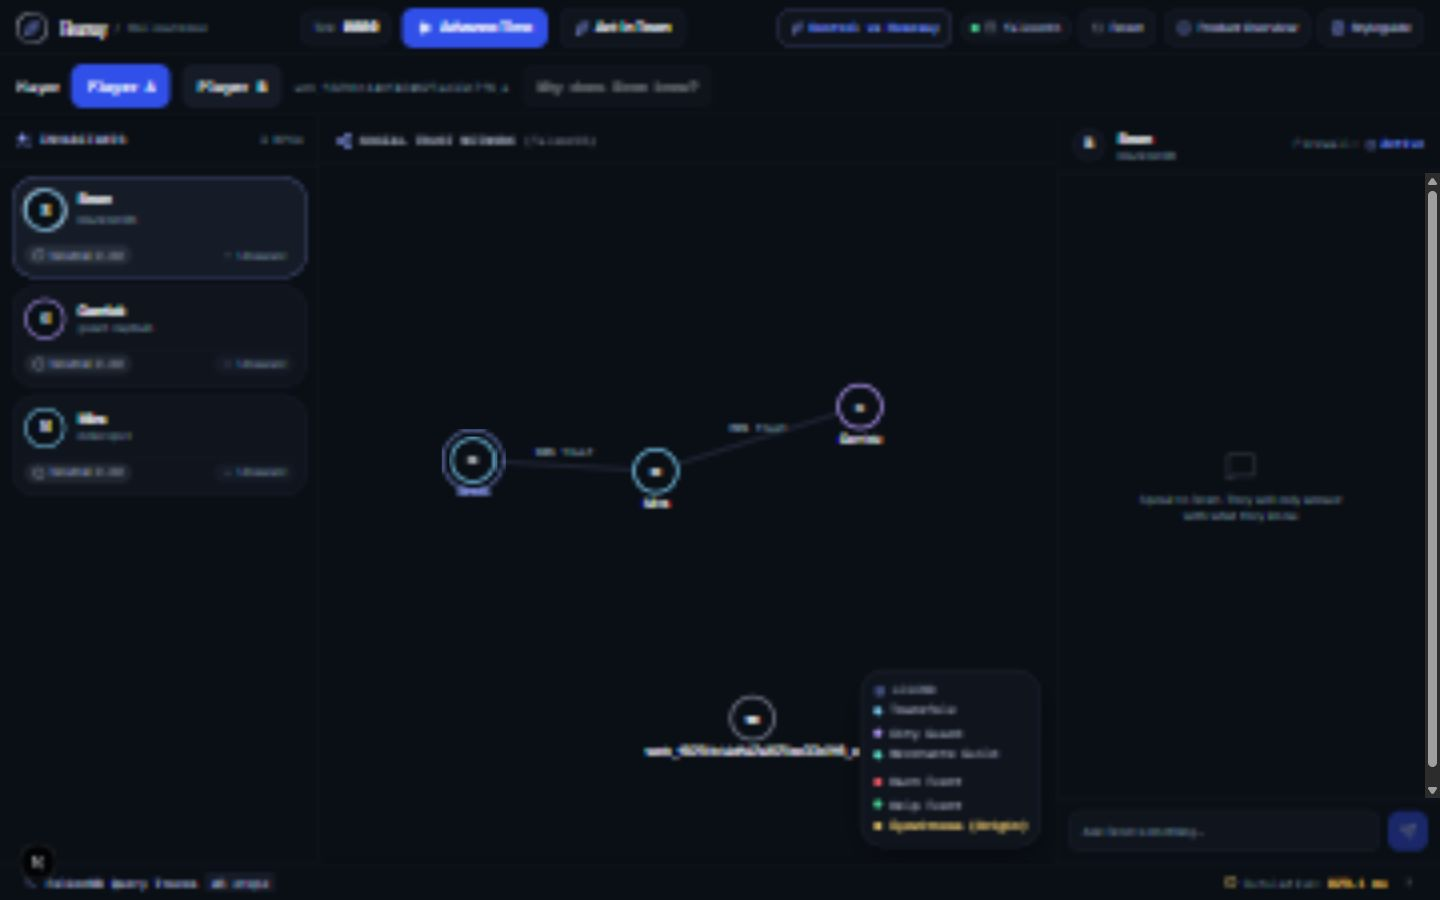
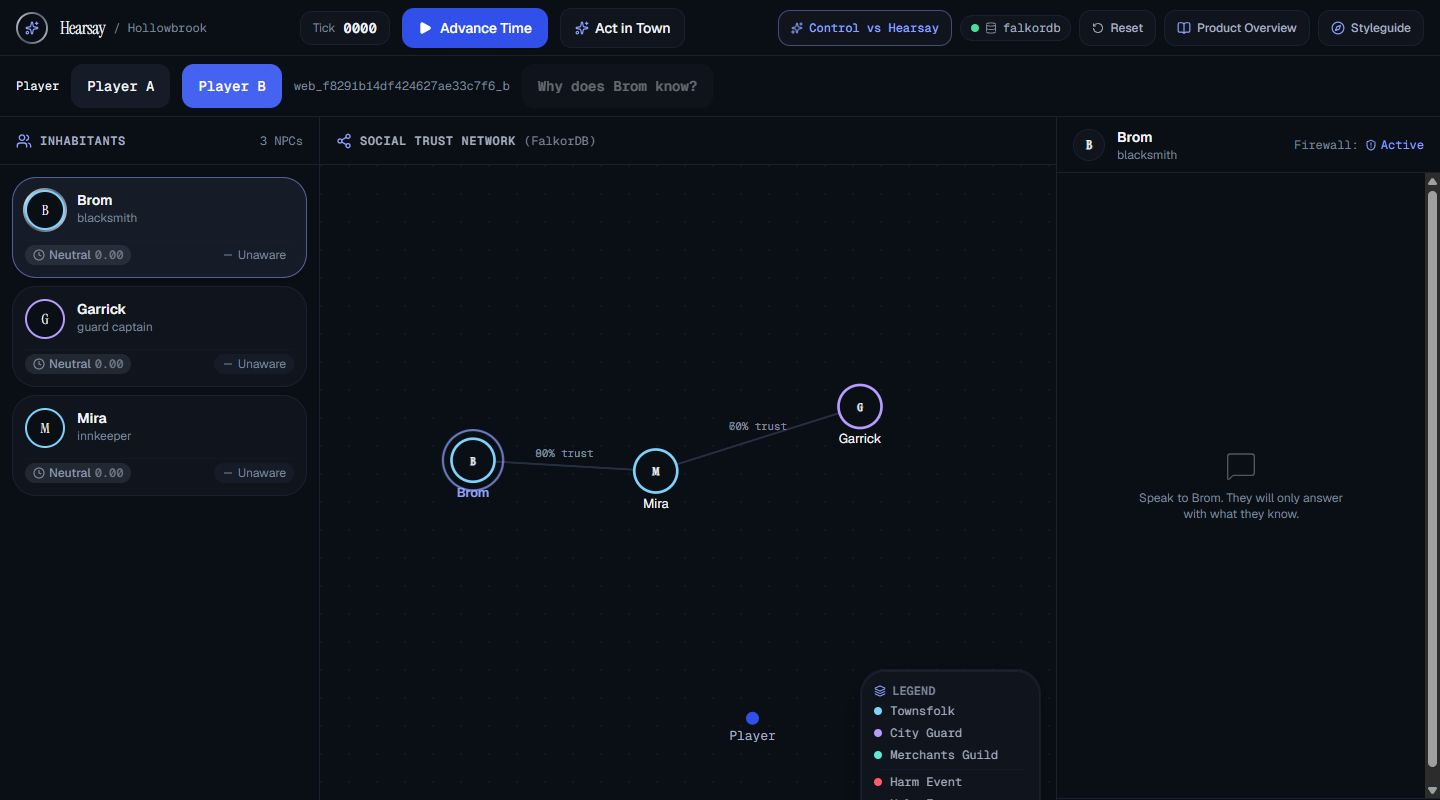
web(D10): verify live demo and preserve failed form state
Record browser proof for firewall abstention, two-tick gossip, provenance, isolation, reload and reset. Keep forms open on failed writes and switch player labels only after a successful load.

Assisted-by: Codex (GPT-6)

diff --git a/apps/web/src/app/page.tsx b/apps/web/src/app/page.tsx
@@ -16,6 +16,7 @@ import { WhyCard } from "../components/WhyCard";
 import { EventForm } from "../components/hearsay/EventForm";
 import { ControlVsHearsayModal } from "../components/ControlVsHearsayModal";
 import { Button } from "../components/ui/button";
+import { PlayerActionModal } from "../components/PlayerActionModal";
 
 export default function TownApp() {
   const [town, setTown] = useState<TownState>();
@@ -28,25 +29,27 @@ export default function TownApp() {
   const savedChats = useRef(new Map<string, TownState["dialogueHistory"]>());
 
   async function run(work: () => Promise<ToolEnvelope<TownState>>, label: string) {
-    if (inFlight.current) return;
+    if (inFlight.current) return false;
     inFlight.current = true;
     setBusy(label);
     setNotice("");
     try {
       const result = await work();
-      if (!result.ok) { setNotice(result.error.code + ": " + result.error.message); return; }
+      if (!result.ok) { setNotice(result.error.code + ": " + result.error.message); return false; }
       setTown((previous) => ({ ...result.data,
         selectedNpcId: previous && previous.playerId === result.data.playerId ? previous.selectedNpcId : result.data.selectedNpcId }));
-    } catch { setNotice("Could not reach the town. Retry the request."); }
+      return true;
+    } catch { setNotice("Could not reach the town. Retry the request."); return false; }
     finally { inFlight.current = false; setBusy(""); }
   }
 
   async function load(player = slot) {
-    await run(async () => {
+    const loaded = await run(async () => {
       const result = isLive ? await liveTown.getTownState(browserPlayer(player)) : await hearsayClient.getTownState();
       if (result.ok) result.data.dialogueHistory = savedChats.current.get(player) ?? {};
       return result;
     }, "Loading town");
+    if (loaded) setSlot(player);
   }
 
   useEffect(() => {
@@ -80,8 +83,8 @@ export default function TownApp() {
 
   async function submit(input: ToolInput<"recordEvent">) {
     if (!town) return;
-    await run(() => liveTown.recordEvent(input, town), "Recording event");
-    setActionOpen(false);
+    const recorded = await run(() => liveTown.recordEvent(input, town), "Recording event");
+    if (recorded) setActionOpen(false);
   }
 
   return <div className="h-screen w-screen flex flex-col bg-background text-text-primary overflow-hidden">
@@ -95,7 +98,7 @@ export default function TownApp() {
     <div className="flex items-center gap-3 px-4 py-2 border-b border-border bg-surface-1 text-xs font-mono">
       <span>Player</span>
       {["a", "b"].map((player) => <Button key={player} variant={slot === player ? "default" : "secondary"} disabled={Boolean(busy)}
-        onClick={() => { savedChats.current.set(slot, town.dialogueHistory); setSlot(player); void load(player); }}>Player {player.toUpperCase()}</Button>)}
+        onClick={() => { savedChats.current.set(slot, town.dialogueHistory); void load(player); }}>Player {player.toUpperCase()}</Button>)}
       <span className="text-text-tertiary truncate">{town.playerId ?? "Mock session"}</span>
       <Button variant="secondary" disabled={Boolean(busy) || !town.events.length} onClick={() => void explain()}>Why does {selected.name} know?</Button>
       <span role="status" className="text-signal">{busy}</span>
@@ -119,8 +122,10 @@ export default function TownApp() {
         }, "Speaking")} />
     </div>
     <TracePanel traces={town.recentTraces} />
-    {actionOpen && <EventForm npcs={town.npcs} places={town.places ?? []} playerId={town.playerId ?? ""}
+    {actionOpen && isLive && <EventForm npcs={town.npcs} places={town.places ?? []} playerId={town.playerId ?? ""}
       busy={Boolean(busy)} onClose={() => setActionOpen(false)} onSubmit={(input) => void submit(input)} />}
+    <PlayerActionModal isOpen={actionOpen && !isLive} npcs={town.npcs} onClose={() => setActionOpen(false)}
+      onSubmitAction={(title, type, witness, place) => void run(() => hearsayClient.recordAction(title, type, witness, place, town), "Recording event")} />
     <ControlVsHearsayModal isOpen={compareOpen} playerId={town.playerId} npcId={selected.id} onClose={() => setCompareOpen(false)} />
   </div>;
 }

diff --git a/apps/web/src/components/hearsay/LiveSpecimens.tsx b/apps/web/src/components/hearsay/LiveSpecimens.tsx
@@ -8,6 +8,7 @@ import { DialoguePanel } from "../DialoguePanel";
 import { GraphPanel } from "../GraphPanel";
 import { ControlVsHearsayModal } from "../ControlVsHearsayModal";
 import { PLACES } from "../../lib/places";
+import { WhyCard } from "../WhyCard";
 
 export function LiveSpecimens() {
   const state = getInitialTownState();
@@ -26,6 +27,7 @@ export function LiveSpecimens() {
       <Button disabled>Recording…</Button><Button variant="ghost">Player B</Button>
     </div>
     <Input aria-label="Input specimen" placeholder="Item or detail" />
+    {state.activeProvenance && <WhyCard provenance={state.activeProvenance} targetNpcName="Garrick" onClose={() => {}} />}
     <p role="status" className="rounded-lg bg-surface-2 p-4 text-text-secondary">No path exists. Garrick has heard nothing about this.</p>
     <p role="alert" className="rounded-lg bg-surface-2 p-4 text-danger">DB_UNAVAILABLE: Start FalkorDB and retry.</p>
     {[[], state.activePathEdgeIds].map((highlight, index) => <div key={index} className="h-96 flex">

diff --git a/apps/web/src/lib/live-view.ts b/apps/web/src/lib/live-view.ts
@@ -30,7 +30,8 @@ export function mapGraph(snapshot: ToolOutput<"snapshot">, npcs: NPC[]) {
     const npc = npcs.find((candidate) => `NPC:${candidate.id}` === node.id);
     const point = coordinates[npc?.id ?? ""] ?? [80 + (index % 5) * 100, node.kind === "Player" ? 410 : 45];
     return {
-      id: node.id, label: node.label, type: node.kind === "NPC" ? "npc" : node.kind === "Player" ? "player" : "event",
+      id: node.id, label: node.kind === "Event" ? `${String(node.props.type)} ${String(node.props.subject ?? "")}`.trim() : node.label,
+      type: node.kind === "NPC" ? "npc" : node.kind === "Player" ? "player" : "event",
       avatarInitials: npc?.avatarInitials, faction: npc?.faction, attitude: npc?.attitude,
       eventType: Number(node.props.weight) < 0 ? "harm" : "help", x: point[0], y: point[1],
     };

diff --git a/apps/web/src/components/GraphPanel.tsx b/apps/web/src/components/GraphPanel.tsx
@@ -204,6 +204,10 @@ export function GraphPanel({
 
             const nodeOpacity = isHighlightMode && !isInActivePath ? "opacity-30" : "opacity-100";
 
+            if (node.type === "player") return <g key={node.id} transform={`translate(${x}, ${y})`}>
+              <circle r="6" fill="var(--color-primary)" />
+              <text y="20" textAnchor="middle" fill="var(--color-text-secondary)" className="font-mono text-xs">Player</text>
+            </g>;
             if (isEvent) {
               const isHelp = node.eventType === "help";
               return (

diff --git a/apps/web/src/components/WhyCard.tsx b/apps/web/src/components/WhyCard.tsx
@@ -134,7 +134,7 @@ export function WhyCard({ provenance, targetNpcName, onClose, onSelectNpc }: Why
           <span>·</span>
           <span className="tabular-nums">Decay Loss: {(provenance.totalDecay * 100).toFixed(0)}%</span>
         </div>
-        <div className="text-signal font-medium">Graph Path: Q60_explain_knows</div>
+        <div className="text-signal font-medium">Graph Path: {provenance.hopCount ? "Q61_explain_chain" : "Q60_explain_knows"}</div>
       </div>
     </div>
   );

diff --git a/docs/duro/D10-live-integration.md b/docs/duro/D10-live-integration.md
@@ -30,3 +30,21 @@ temporary umbrella Radix dependency was removed. No new design, animation or ico
 API tests use the actual handler and real FalkorDB, including the complete two-tick gossip path,
 exact attitude and snapshot-matching explanation IDs. UI specimens are on `/styleguide` and
 screenshots are in `screens/D10-*.png`.
+
+## Browser verification
+
+Verified at 1440x900 on the actual Next server and local FalkorDB:
+
+- Record `stole / iron sword / forge / brom`: Brom becomes hostile; Garrick remains unaware.
+- Ask Garrick `I stole the iron sword. Did you hear?`: safe abstention, template source and passed firewall.
+- Explain before gossip: explicit `No path exists` state.
+- Advance once: Mira learns at 90%; Garrick remains unaware. Advance twice: Garrick is wary,
+  score -0.56 in the UI (exact backend score -0.562464), confidence 63%.
+- Explain after gossip: actual Brom → Mira → Garrick path at 100%, 90%, 63%, with Q61 provenance.
+- Player B: tick zero, no events or memories. Return/reload A: tick two and knowledge preserved.
+- Comparison: actual sayNaive/say replies, both accurately labeled template fallback.
+- Reset A: tick zero, all three NPCs neutral and unaware. Repeating the action/gossip flow succeeds.
+- Styleguide renders the new form, source/firewall metadata and graph states.
+
+The full workspace suite passes 136 tests. Production build passes with the existing dynamic
+seed-file tracing warning; no live Gemini or Cloud-browser result is claimed.
